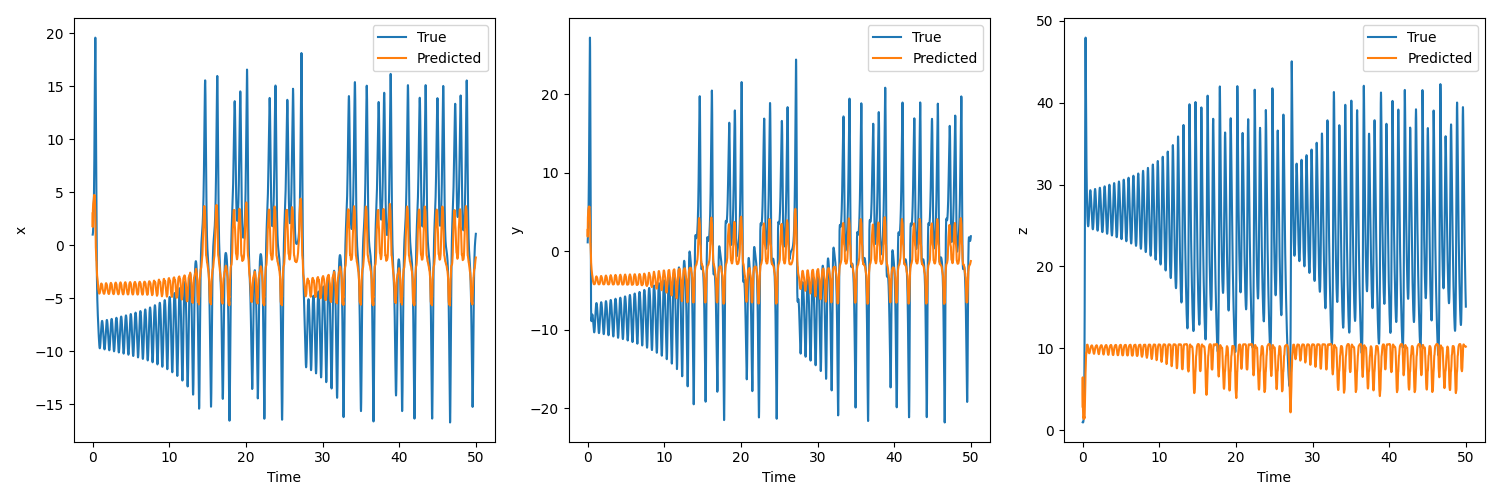
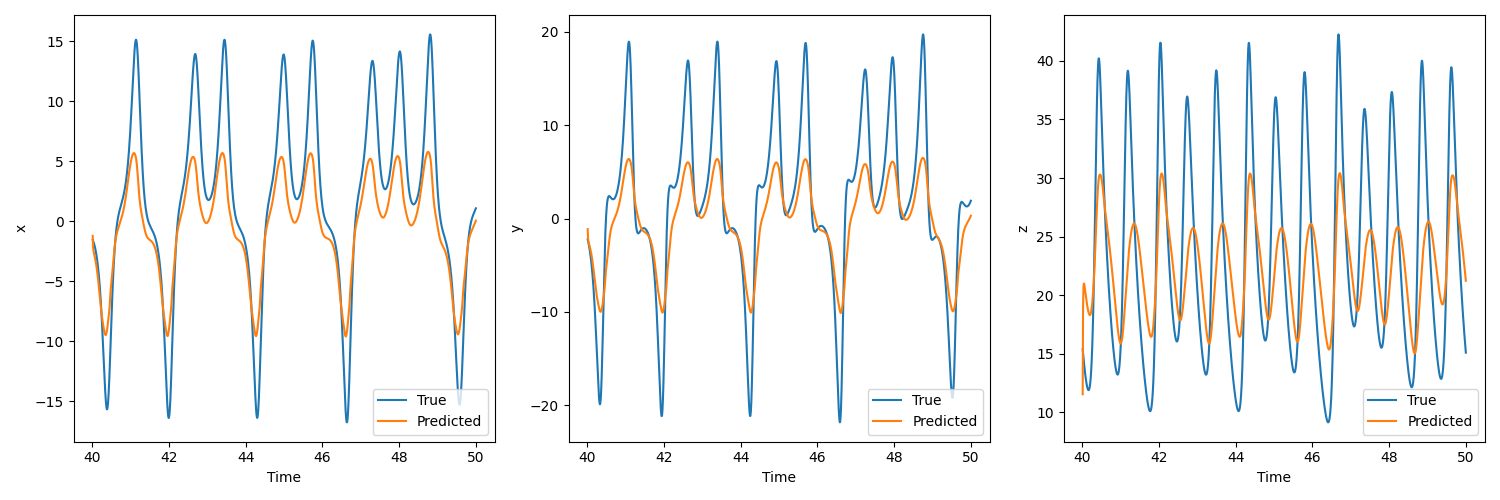
LSTM & train split

diff --git a/lorentz/Lorentz.py b/lorentz/Lorentz.py
@@ -3,7 +3,8 @@ import torch
 import torch.nn as nn
 import torch.optim as optim
 import matplotlib.pyplot as plt
-import numpy as np
+import torch.nn.functional as F
+from sklearn.model_selection import train_test_split
 
 torch.device('cuda' if torch.cuda.is_available() else 'cpu')
 
@@ -14,62 +15,60 @@ t = df['time'].values
 
 print("loading data")
 
+# Split the data into training and validation sets
+train_data, val_data = train_test_split(data, test_size=0.2, shuffle=False)
+train_t, val_t = train_test_split(t, test_size=0.2, shuffle=False)
+
 # Prepare the data for PyTorch
-data_torch = torch.tensor(data, dtype=torch.float32).unsqueeze(0)  # Adding batch dimension
-target_torch = data_torch[:, 1:, :]  # Target is the next time step
+train_data_torch = torch.tensor(train_data, dtype=torch.float32).unsqueeze(0)  # Adding batch dimension
+train_target_torch = train_data_torch[:, 1:, :]  # Target is the next time step
+
+val_data_torch = torch.tensor(val_data, dtype=torch.float32).unsqueeze(0)  # Adding batch dimension
+val_target_torch = val_data_torch[:, 1:, :]  # Target is the next time step
 
 # Create DataLoader for batching
-dataset = torch.utils.data.TensorDataset(data_torch[:, :-1, :], target_torch)
-dataloader = torch.utils.data.DataLoader(dataset, batch_size=1, shuffle=True)
+train_dataset = torch.utils.data.TensorDataset(train_data_torch[:, :-1, :], train_target_torch)
+train_dataloader = torch.utils.data.DataLoader(train_dataset, batch_size=1, shuffle=True)
 
 print("data loaded")
 
 # Define the reservoir model
-class Reservoir(nn.Module):
-    def __init__(self, input_size, reservoir_size, output_size, spectral_radius=0.9, sparsity=0.1):
-        super(Reservoir, self).__init__()
+# Define the LSTM-based reservoir model
+class LSTMReservoir(nn.Module):
+    def __init__(self, input_size, reservoir_size, output_size):
+        super(LSTMReservoir, self).__init__()
         self.input_size = input_size
         self.reservoir_size = reservoir_size
         self.output_size = output_size
 
-        # Input weights
-        self.Win = nn.Parameter(torch.randn(reservoir_size, input_size))
-
-        # Reservoir weights
-        self.W = nn.Parameter(torch.randn(reservoir_size, reservoir_size))
+        # LSTM as reservoir
+        self.lstm = nn.LSTM(input_size, reservoir_size, batch_first=True)
 
         # Output weights
-        self.Wout = nn.Linear(reservoir_size, output_size)
+        self.linear1 = nn.Linear(reservoir_size, 64)
+        self.linear2 = nn.Linear(64, output_size)
 
-        # Adjust spectral radius
-        self.W.data *= spectral_radius / torch.max(torch.abs(torch.linalg.eigvals(self.W.data)))
-
-        # Apply sparsity
-        mask = (torch.rand(reservoir_size, reservoir_size) < sparsity).float()
-        self.W.data *= mask
+        # Freeze LSTM parameters
+        for param in self.lstm.parameters():
+            param.requires_grad = False
 
     def forward(self, x):
-        batch_size, seq_len, _ = x.size()
-        h = torch.zeros(batch_size, self.reservoir_size)
-        outputs = []
+        h, _ = self.lstm(x)
 
-        for t in range(seq_len):
-            h = torch.tanh(self.Win @ x[:, t, :].T + self.W @ h.T).T
-            outputs.append(self.Wout(h))
-
-        outputs = torch.stack(outputs, dim=1)
-        return outputs
+        y = F.leaky_relu(self.linear1(h))
+        y = self.linear2(y)
+        return y
 
 
 # Define the model parameters
 input_size = 3
-reservoir_size = 100
+reservoir_size = 256
 output_size = 3
 
 print("creating model")
 
 # Create the reservoir model
-model = Reservoir(input_size, reservoir_size, output_size)
+model = LSTMReservoir(input_size, reservoir_size, output_size)
 
 print("model created")
 
@@ -81,14 +80,19 @@ criterion = nn.MSELoss()
 optimizer = optim.Adam(model.parameters(), lr=0.001)
 num_epochs = 100
 
+losses = []
+accuracies = []
+
 # Training loop
 for epoch in range(num_epochs):
-    for inputs, targets in dataloader:
+    for inputs, targets in train_dataloader:
         optimizer.zero_grad()
         outputs = model(inputs)
         loss = criterion(outputs, targets)
         loss.backward()
         optimizer.step()
+
+        losses.append(loss.item())
 
     if (epoch + 1) % 10 == 0:
         print(f'Epoch [{epoch + 1}/{num_epochs}], Loss: {loss.item():.4f}')
@@ -96,17 +100,17 @@ for epoch in range(num_epochs):
 # Evaluate the model
 model.eval()
 with torch.no_grad():
-    predictions = model(data_torch[:, :-1, :])
-    rmse = torch.sqrt(criterion(predictions, target_torch))
-    predictions_np = predictions.squeeze(0).numpy()
-    target_np = target_torch.squeeze(0).numpy()
+    val_predictions = model(val_data_torch[:, :-1, :])
+    rmse = torch.sqrt(criterion(val_predictions, val_target_torch))
+    val_predictions_np = val_predictions.squeeze(0).numpy()
+    val_target_np = val_target_torch.squeeze(0).numpy()
     print(f'RMSE: {rmse.item():.4f}')
 
 
 # Check dimensions
 print("Shape of t:", t[1:].shape)
-print("Shape of target_np:", target_np.shape)
-print("Shape of predictions_np:", predictions_np.shape)
+print("Shape of target_np:", val_target_np.shape)
+print("Shape of predictions_np:", val_predictions_np.shape)
 
 # Plotting the predictions
 plt.figure(figsize=(15, 5))
@@ -114,8 +118,8 @@ plt.figure(figsize=(15, 5))
 # Plot each state variable separately
 for i, var_name in enumerate(['x', 'y', 'z']):
     plt.subplot(1, 3, i+1)
-    plt.plot(t[1:], target_np[:, i], label='True')
-    plt.plot(t[1:], predictions_np[:, i], label='Predicted')
+    plt.plot(val_t[1:], val_target_np[:, i], label='True')
+    plt.plot(val_t[1:], val_predictions_np[:, i], label='Predicted')
     plt.xlabel('Time')
     plt.ylabel(var_name)
     plt.legend()
@@ -123,3 +127,13 @@ for i, var_name in enumerate(['x', 'y', 'z']):
 plt.tight_layout()
 plt.savefig('lorenz_predictions.png')
 plt.show()
+plt.close()
+
+# plot the loss
+plt.plot(losses)
+plt.xlabel('Epoch')
+plt.ylabel('Loss')
+plt.title('Training Loss')
+plt.savefig('lorenz_loss.png')
+plt.show()
+plt.close()
